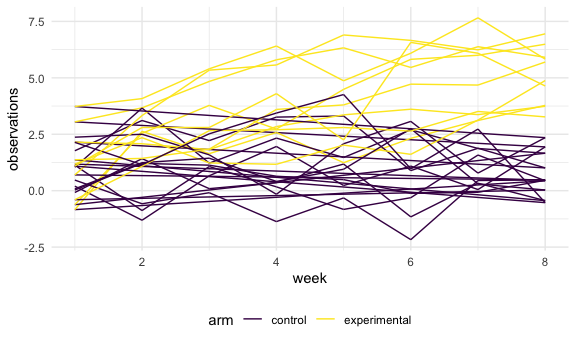
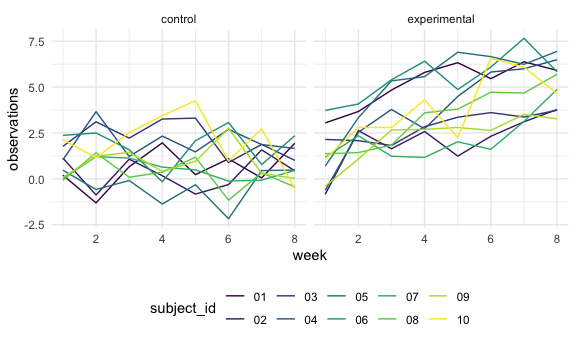
Plot adjustments, more interpretations

diff --git a/p8105_hw5_yoa2102.md b/p8105_hw5_yoa2102.md
@@ -127,20 +127,10 @@ path_df %>%
   ) %>%
   mutate(
     week = as.numeric(week),
-    subject_id = as.numeric(subject_id)
   )
 ```
 
 #### Make a spaghetti plot showing observations on each subject over time, and comment on differences between groups.
-
-``` r
-long_study_df %>%
-  group_by(arm, subject_id) %>%
-  ggplot(aes(x = week, y = observations, group = subject_id, color = arm)) +
-  geom_path() 
-```
-
-<img src="p8105_hw5_yoa2102_files/figure-gfm/unnamed-chunk-7-1.png" width="90%" />
 
 ``` r
 long_study_df %>%
@@ -149,7 +139,7 @@ ggplot(aes(week, observations, group = subject_id, color = subject_id)) +
   facet_grid(~arm) 
 ```
 
-<img src="p8105_hw5_yoa2102_files/figure-gfm/unnamed-chunk-8-1.png" width="90%" />
+<img src="p8105_hw5_yoa2102_files/figure-gfm/unnamed-chunk-7-1.png" width="90%" />
 
 The spaghetti plot indicates that, on average, study participants in the
 experimental group have consistently higher observed values than those
@@ -241,7 +231,7 @@ power_effect_plot = results %>%
   power_effect_plot
 ```
 
-<img src="p8105_hw5_yoa2102_files/figure-gfm/unnamed-chunk-11-1.png" width="90%" />
+<img src="p8105_hw5_yoa2102_files/figure-gfm/unnamed-chunk-10-1.png" width="90%" />
 
 Power is the probability of correctly rejecting the null hypothesis. As
 effect size increases, power also increases/approaches 1.
@@ -290,7 +280,7 @@ ggplot(avg_estimate, aes(avg_estimate, x = mu, y = average)) +
 avg_estimate_plot
 ```
 
-<img src="p8105_hw5_yoa2102_files/figure-gfm/unnamed-chunk-12-1.png" width="90%" />
+<img src="p8105_hw5_yoa2102_files/figure-gfm/unnamed-chunk-11-1.png" width="90%" />
 
 In the plot above, we plotted the true value of μ on the x axis and two
 versions of the mean estimated μ on the y-axis: (1) the mean estimated μ
